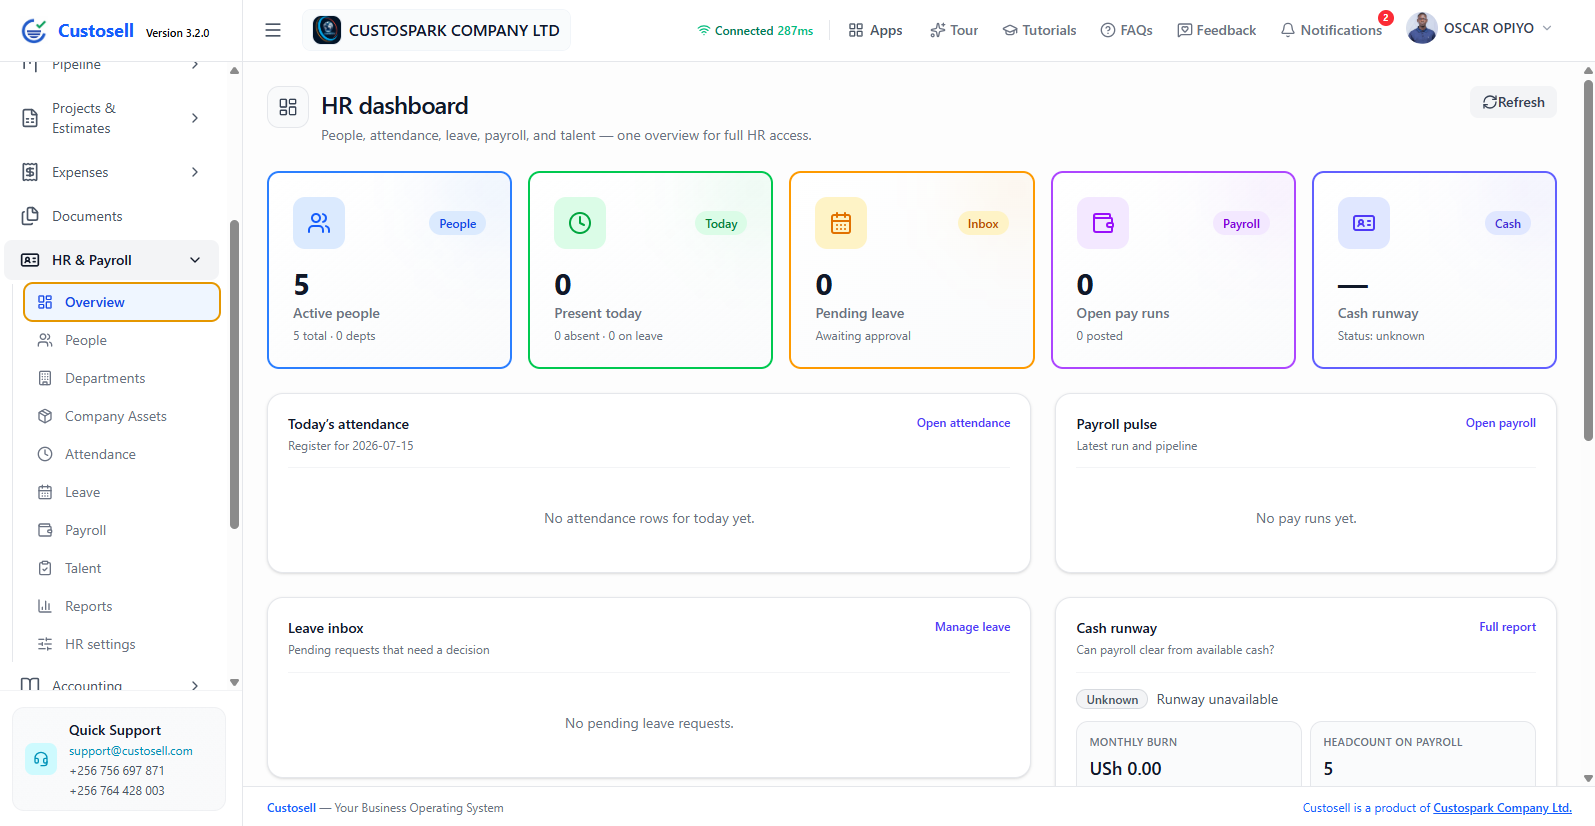
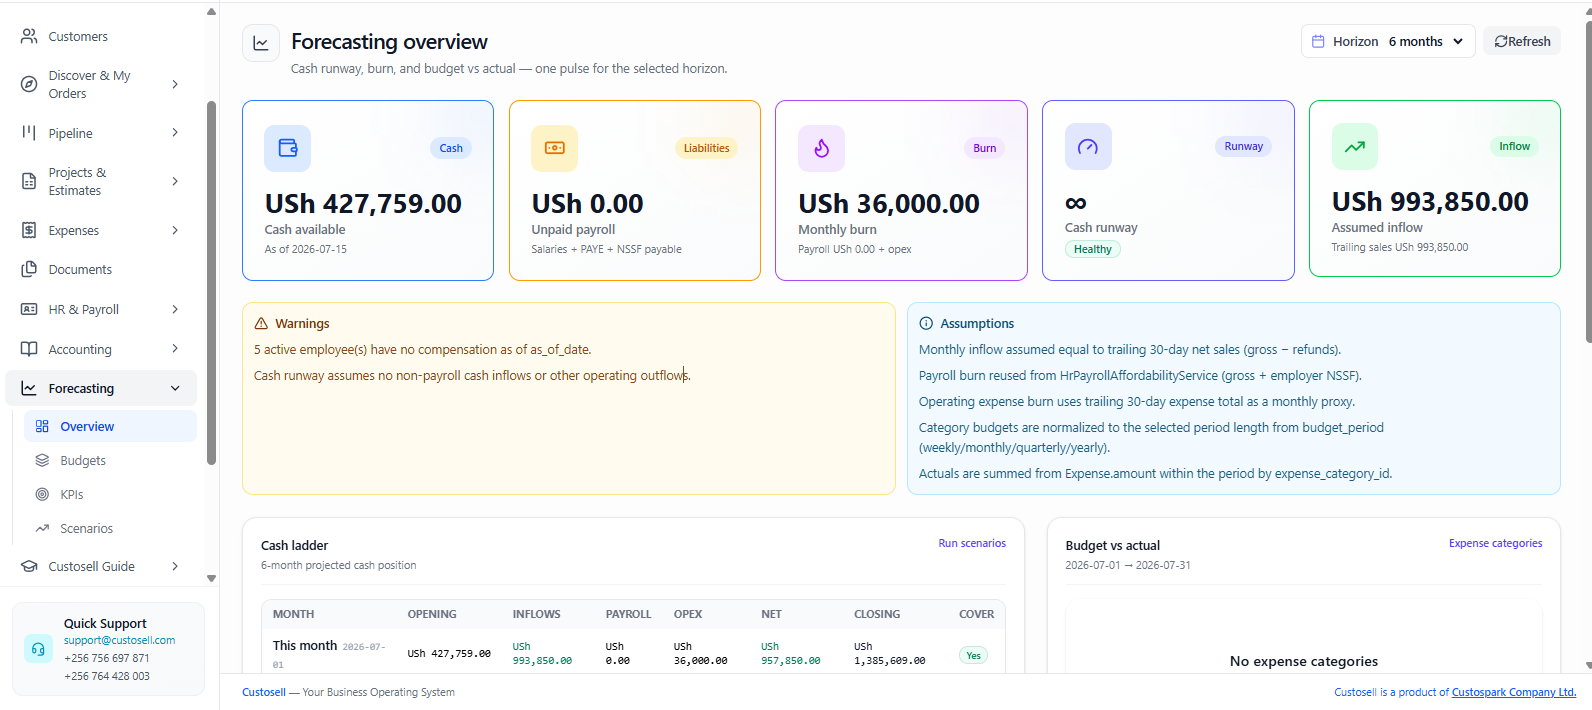
Update Custosell tagline: Your Business Operating System — Sell More. Track All. Grow Fast.

diff --git a/src/sections/CustosellProduct.tsx b/src/sections/CustosellProduct.tsx
@@ -101,7 +101,7 @@ export function CustosellProduct() {
           <img src={custosellLogo} alt="Custosell" className="h-14 w-auto rounded-full" />
           <div className="text-left">
             <h3 className="font-heading text-h1 text-white uppercase tracking-wide">Custosell</h3>
-            <p className="text-orange-400/90 text-body font-medium">Sell More. Track All. Grow Fast.</p>
+            <p className="text-orange-400/90 text-body font-medium">Your Business Operating System — Sell More. Track All. Grow Fast.</p>
           </div>
         </div>
         <p className="text-white/80 text-body-lg leading-relaxed">
